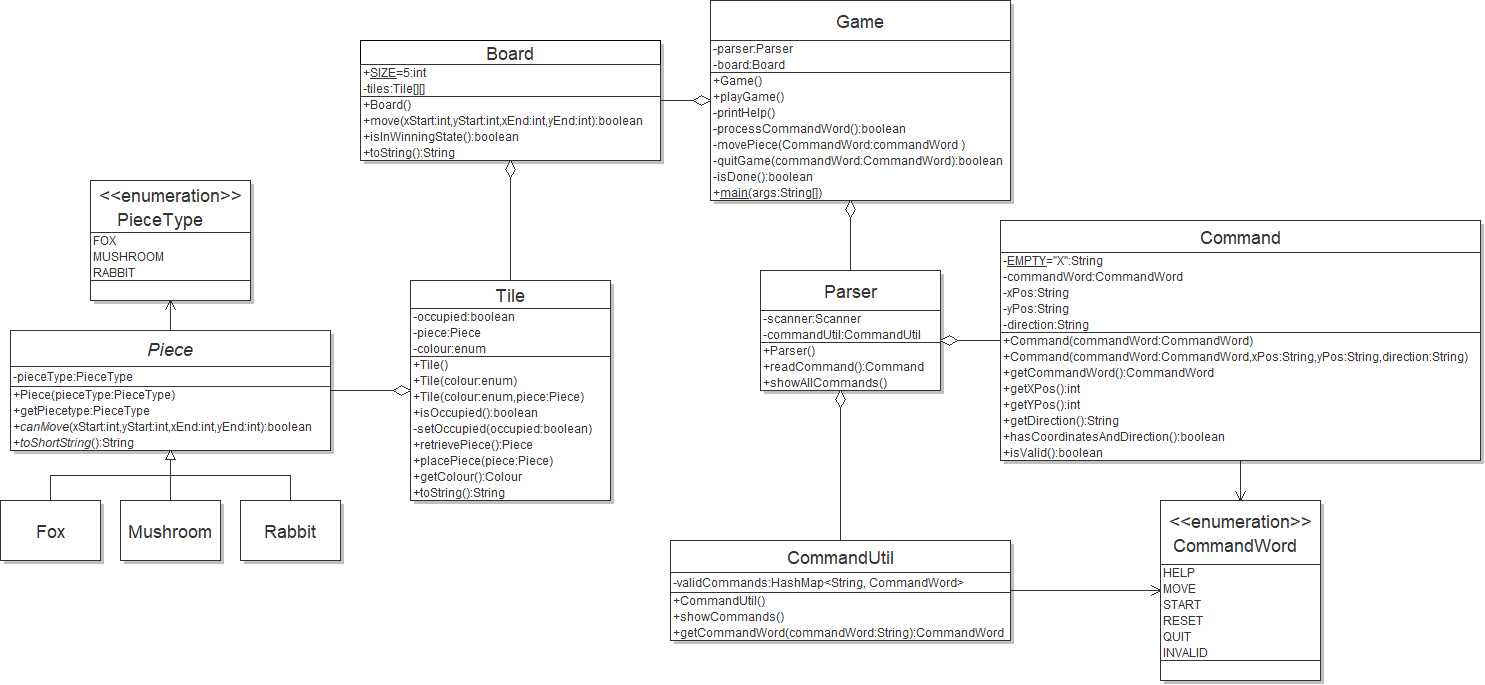
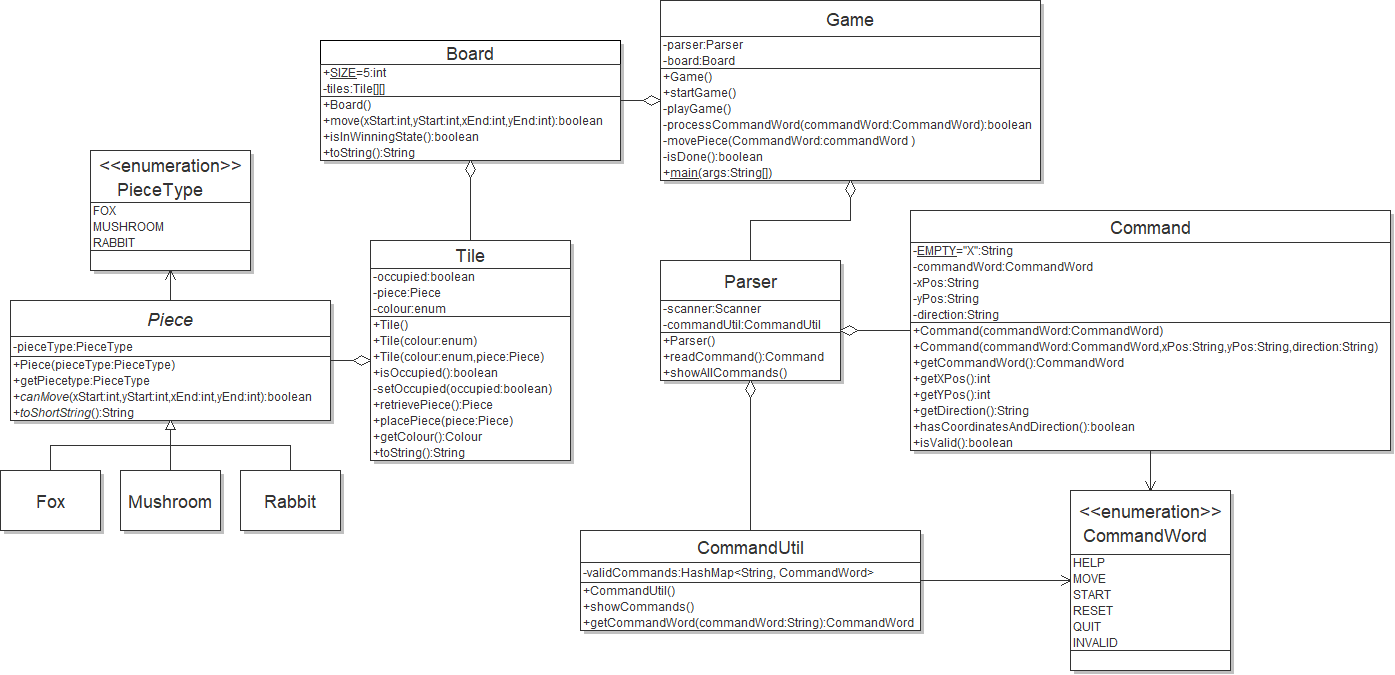
updated the game class, the uml and added a new picture for the uml

diff --git a/src/main/java/app/Game.java b/src/main/java/app/Game.java
@@ -5,7 +5,7 @@ package app;
 
 /**
  * This class is responsible for controlling the game. Using parser and board
- * class to play the game/
+ * class to play the game
  * 
  * @author Mohamed Radwan
  * @version 1.0
@@ -20,7 +20,75 @@ public class Game {
 	 */
 	public Game() {
 		this.parser = new Parser();
+	}
+
+	/***
+	 * This method will start the game but wait for the user to type start to play
+	 * the game. It then calls the method playGame()
+	 */
+	public void startGame() {
 		this.board = new Board();
+		System.out.println("Welcome to JumpIN Game !");
+		System.out.println("Type 'help' if you need help.");
+		System.out.println("\nPlease type 'Start' to start the game. Have fun!");
+		boolean startGame = false;
+		do {
+			if (parser.readCommand().getCommandWord() == CommandWord.START) {
+				startGame = true;
+			}
+
+		} while (!startGame);
+		System.out.println("Get Ready, Game is Starting.");
+		System.out.println("Foxes are moving to position...");
+		System.out.println("Game started, have fun.");
+		this.playGame();
+	}
+
+	/***
+	 * This method will run the game for the user to interact with.
+	 */
+	private void playGame() {
+		boolean done = false;
+		while (!(this.isDone() && done)) {
+			Command command = parser.readCommand();
+			CommandWord commandWord = command.getCommandWord();
+			done = this.processCommandWord(commandWord);
+		}
+		System.out.println("\nThe foxes will now go back to sleep!");
+		System.out.println("Thank you for playing. Good bye.");
+	}
+
+	/***
+	 * Process the command to see how the game should respond to the user's input.
+	 * 
+	 * @param command
+	 * @return
+	 */
+	private boolean processCommandWord(CommandWord commandWord) {
+		boolean endGame = false;
+		if (commandWord == CommandWord.HELP) {
+			System.out.println("Here is the help menu:");
+			parser.showAllCommands();
+			System.out.println();
+		} else if (commandWord == CommandWord.MOVE) {
+			this.movePiece(commandWord);
+		} else if (commandWord == CommandWord.INVALID) {
+			System.out.println("Invalid command please try again.\nType 'help' if you need help.\n");
+		} else if (commandWord == CommandWord.QUIT) {
+			return true;
+		} else if (commandWord == CommandWord.RESET) {
+			this.startGame();
+		}
+		return endGame;
+	}
+
+	/***
+	 * Invokes a method in board to move the piece on specific coordinate
+	 * 
+	 * @param command
+	 */
+	private void movePiece(CommandWord command) {
+		System.out.println("Move Piece ... TO DO");
 	}
 
 	/***
@@ -34,81 +102,14 @@ public class Game {
 	}
 
 	/***
-	 * This method is used to play the game.
-	 */
-	public void playGame() {
-		System.out.println("Welcome to JumpIN Game !");
-		System.out.println("Type 'help' if you need help.\n");
-		boolean done = false;
-		while (!this.isDone()) {
-			command = parser.readCommand();
-			done = this.processCommandWord(command);
-		}
-		System.out.println("\nThank you for playing. Good bye.");
-	}
-
-	/***
-	 * Prints all the commands that can be used within the game.
-	 */
-	private void printHelp() {
-		System.out.println("Here is the help menu:");
-		parser.showCommands();
-	}
-
-	/***
-	 * Process the command to see how the game should respond.
-	 * 
-	 * @param command
-	 * @return
-	 */
-	private boolean processCommandWord(CommandWord command) {
-		boolean endGame = false;
-		CommandWord commandWord = command.readCommand();
-		if (commandWord == CommandWord.HELP) {
-			this.printHelp();
-		} else if (commandWord == CommandWord.MOVE) {
-			this.movePiece(commandWord);
-		} else if (commandWord == CommandWord.INVALID) {
-			System.out.println("Invalid command please try again.");
-			System.out.println("Type 'help' if you need help.\n");
-		} else if (commandWord == CommandWord.QUIT) {
-			this.quitGame(commandWord);
-		} else if (commandWord == CommandWord.START) {
-
-		}
-		return endGame;
-	}
-
-	/***
-	 * Invokes a method in board to move the piece on specific coordinate
-	 * 
-	 * @param command
-	 */
-	private void movePiece(CommandWord command) {
-
-	}
-
-	/***
-	 * checks if the user truly wants to quite the game.
-	 * 
-	 * @param commandWord
-	 * @return true if the user wants to quite the game
-	 */
-	private boolean quitGame(CommandWord commandWord) {
-		// TO DO
-		return true;
-	}
-
-	/***
 	 * Main method used to run the game
 	 * 
 	 * @param args
 	 */
 	public static void main(String[] args) {
-		// create a new game
 		Game game = new Game();
-		// run the game
-		game.playGame();
+		game.startGame();
+
 	}
 
 }
